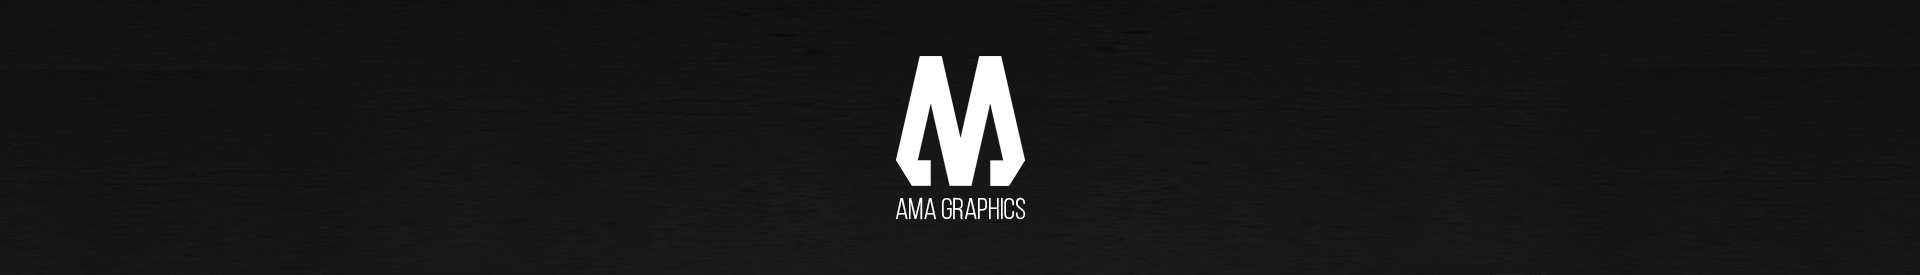
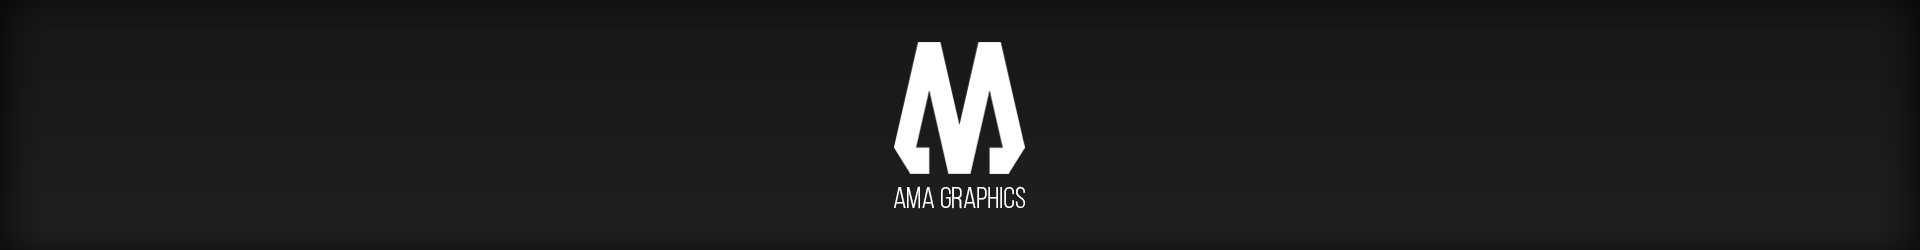
dfsdfsd

Changed region(s): [[0.4688, 0.56, 0.5312, 0.84], [0.4688, 0.364, 0.5312, 0.504], [0.4688, 0.168, 0.5312, 0.28]]

diff --git a/css/style.css b/css/style.css
@@ -37,7 +37,7 @@ footer, header, hgroup, menu, nav, section {
     background-position: center; 
     color: white;
     font-size: 30px;
-    height: 275px;
+    height: 250px;
   }
 
 body {
